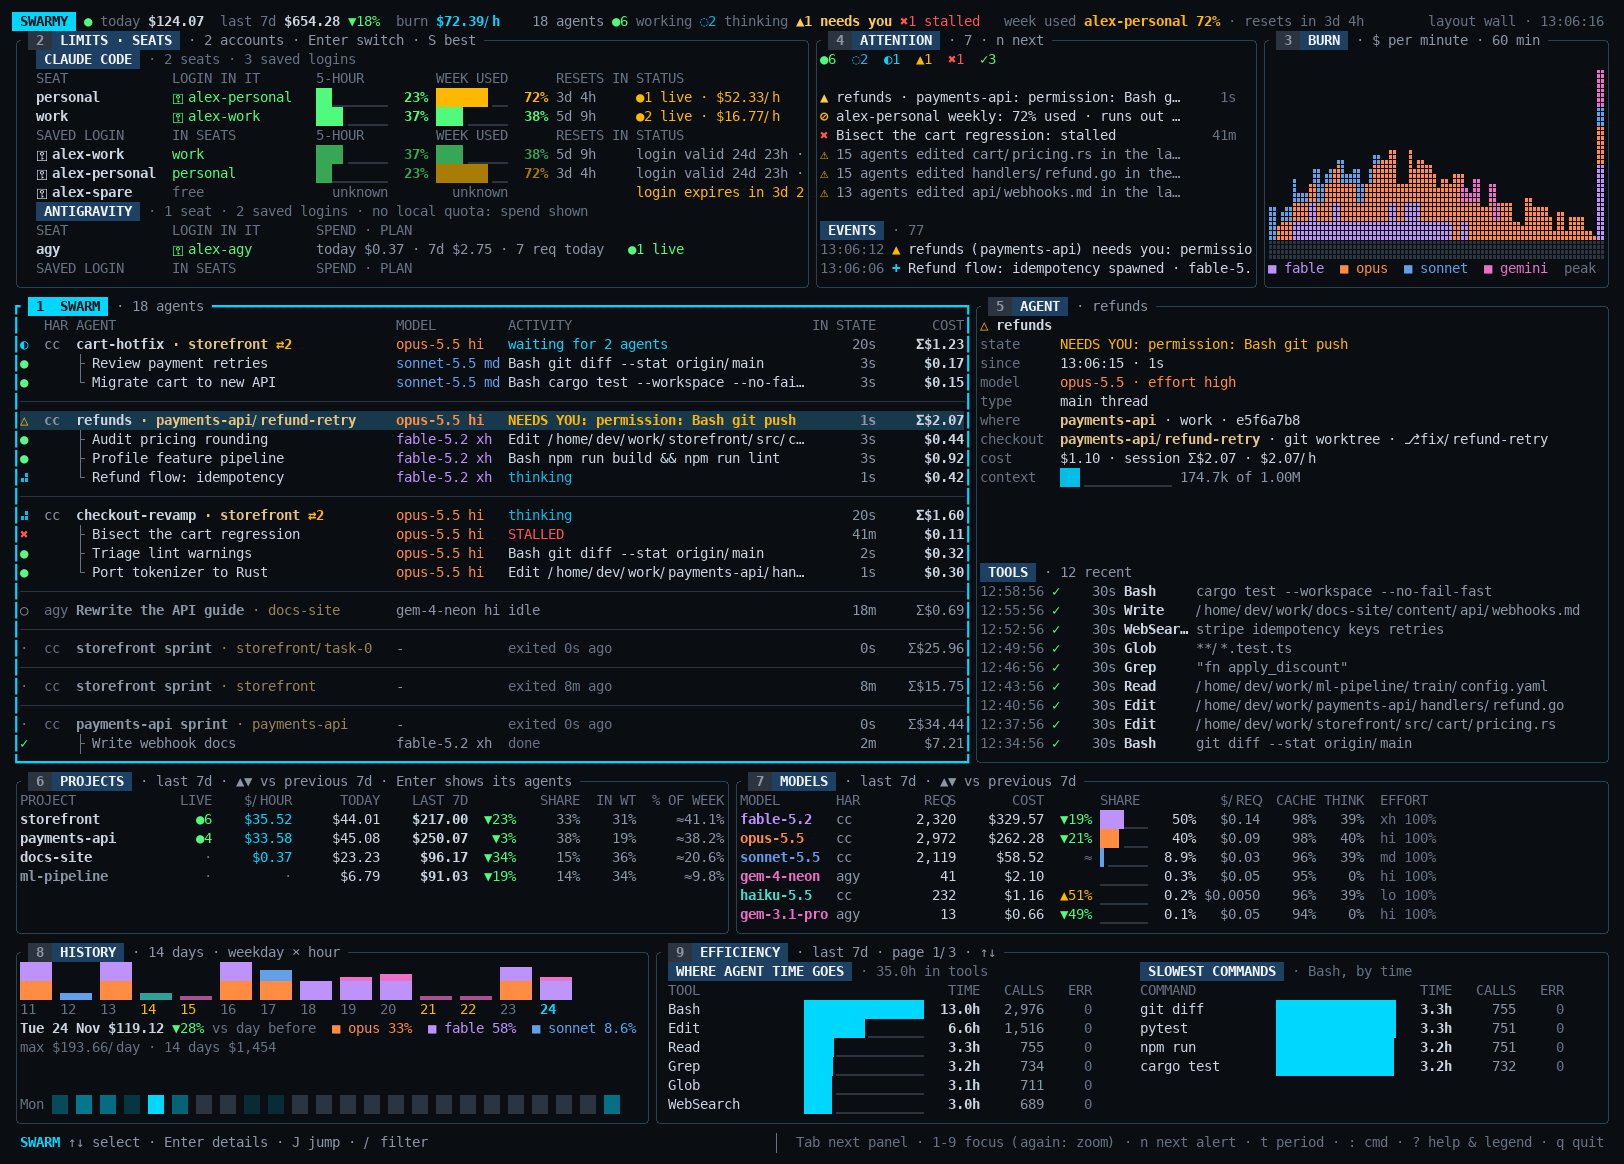
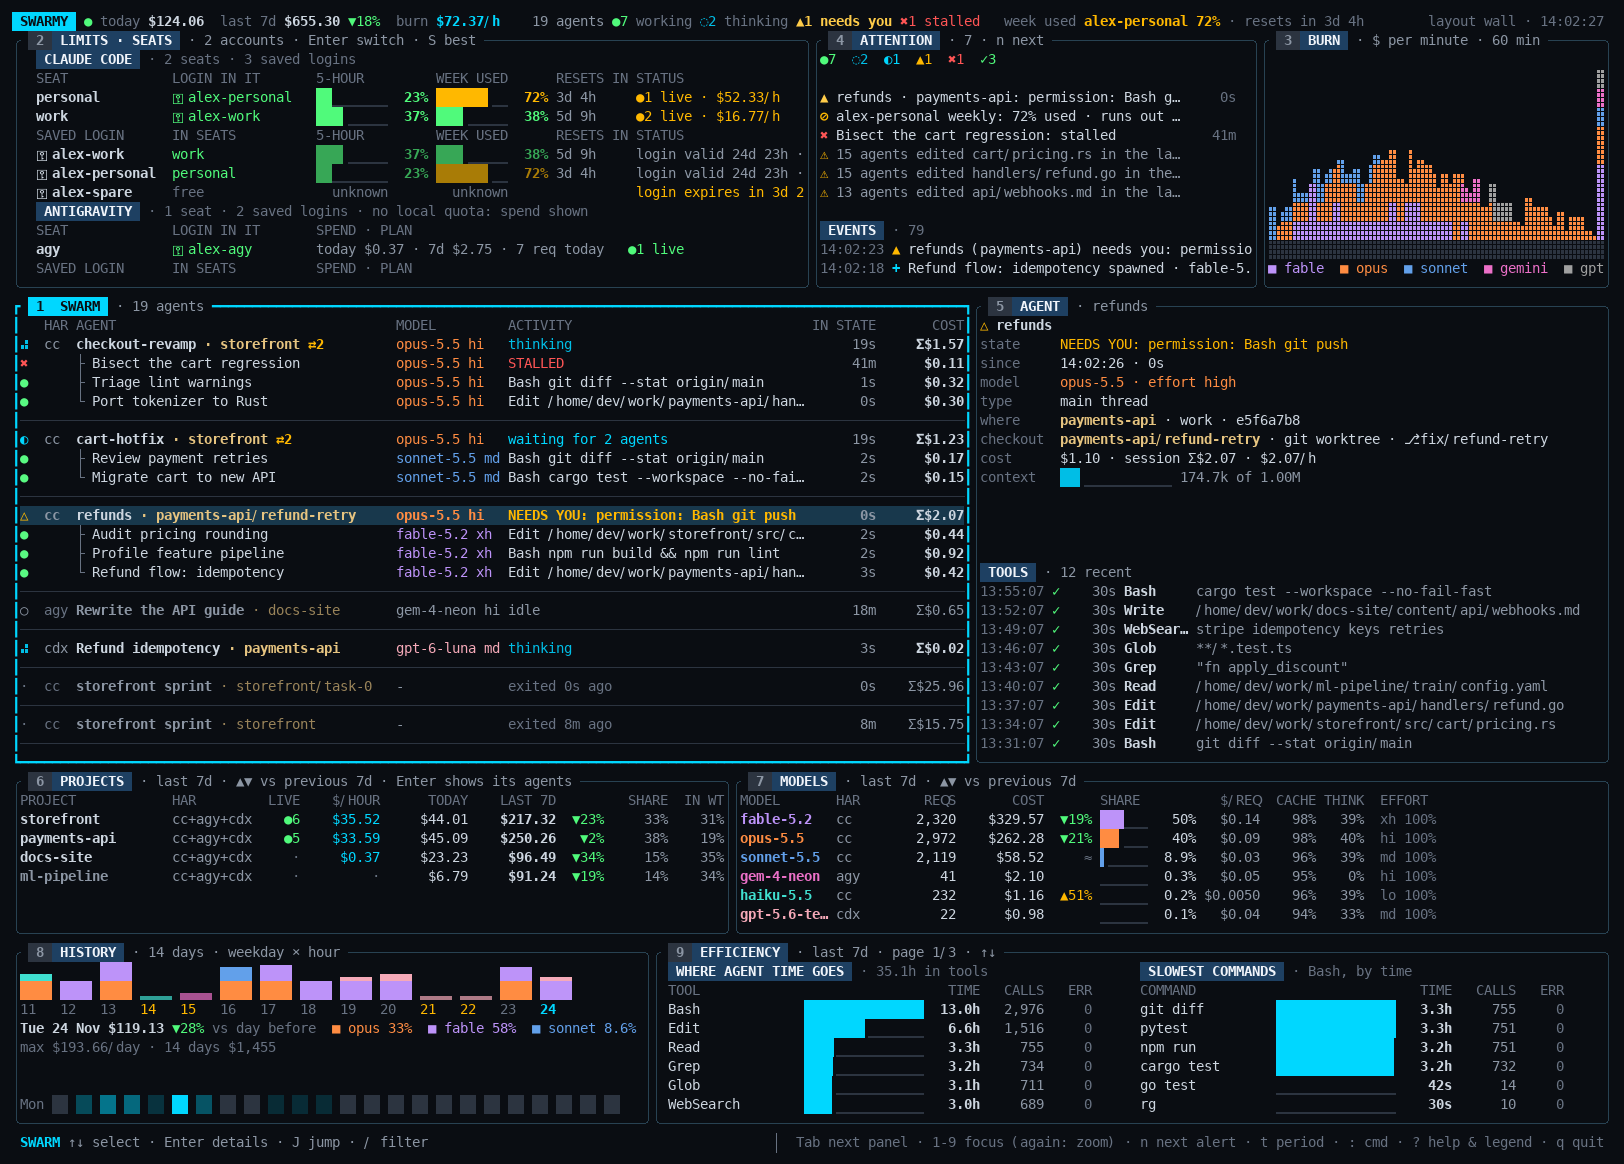
README: a real-time analytics dashboard across clients; v0.2.0 notes in one section
The lead says what swarmy is: a live view, a history that outlives the clients' 30-day
transcripts, and analytics for Claude Code, Antigravity and Codex in the same tables (one
repository is one project, every number splittable by client). The same line in Cargo, --help
and AGENTS.md. CHANGELOG: everything since v0.1.0 in one v0.2.0 section. PROJECTS sizes its HAR
column to the longest value (cc+agy+cdx). Media recorded again with the Codex seat.

diff --git a/src/tui/view/panels/projects.rs b/src/tui/view/panels/projects.rs
@@ -48,16 +48,6 @@ pub fn projects(f: &mut Frame, app: &mut App, area: Rect) {
         0
     };
     // Which harnesses worked on each project (`cc+agy`), with more than one.
-    let har_w = if app
-        .analytics
-        .projects
-        .iter()
-        .any(|p| !p.by_harness.is_empty())
-    {
-        8usize
-    } else {
-        0
-    };
     let har_of = |p: &crate::tui::ProjectRow| -> String {
         p.by_harness
             .iter()
@@ -66,6 +56,14 @@ pub fn projects(f: &mut Frame, app: &mut App, area: Rect) {
             .collect::<Vec<_>>()
             .join("+")
     };
+    let har_w = app
+        .analytics
+        .projects
+        .iter()
+        .map(|p| w(&har_of(p)))
+        .max()
+        .filter(|n| *n > 0)
+        .map_or(0, |n| n.max(3) + 1);
     let fixed = name_w + har_w + live_w + hour_w + today_w + per_w + 6 + share_w + wt_w + pts_w + 7;
     let bar_w = width.saturating_sub(fixed).min(40);
     let total: f64 = app

diff --git a/src/cli/mod.rs b/src/cli/mod.rs
@@ -19,7 +19,7 @@ use crate::ui::style::{ColorChoice, Painter};
 #[command(
     name = "swarmy",
     version,
-    about = "Mission control for AI coding agents (Claude Code, Antigravity): live swarm, API-equivalent spend, weekly-limit attribution, login vault",
+    about = "Real-time analytics dashboard for coding agents (Claude Code, Antigravity, Codex): live swarm, history, API-equivalent spend, weekly limits, login vault",
     long_about = None,
     after_help = "Run without a command for the live dashboard. Data never leaves this machine."
 )]

diff --git a/CHANGELOG.md b/CHANGELOG.md
@@ -3,49 +3,58 @@
 All notable changes to swarmy. Versions follow [Semantic Versioning](https://semver.org/); the
 release workflow takes a release's notes from its section here.
 
-## Unreleased
-
-- **OpenAI Codex as a third harness**: its homes (`~/.codex`, `~/.codex-*`, the `CODEX_HOME` of
-  running `codex` processes, `[[seat]] harness = "codex"`), threads read from their rollouts
-  (each response once, though Codex writes its usage twice), tool calls, prompts, thread names
-  and the account a thread runs under; one project per repo whichever harness worked on it;
-  `--harness codex`, `--by harness`, `cdx` in SWARM, MODELS and BURN. Open threads are live in
-  SWARM (thinking, a tool, idle), found by the lock Codex holds on each open thread.
-- **OpenAI prices** (GPT-6 Luna, Sol, Astra; 6.1, 6.2; GPT-5.6 Terra, Luna, Sol; 5.5 back to
-  GPT-5 and the Codex models) as dated built-in rows, with the 272K long-context rule and the
-  priority tier; `tools/prices-from-litellm.py` compares them too. The built-in table moved to
-  `src/core/pricing/builtin.rs`.
-- Codex seats show their spend in LIMITS · SEATS (no local quota is read yet) and are not kept in
-  the vault. The index's facts move to version 5 (the seats table learns the new harness).
-
 ## v0.2.0
 
-Antigravity next to Claude Code, worktrees and branches, and logins shared between seats.
+Three clients side by side (Claude Code, Antigravity, Codex), worktrees and branches, a clearer
+vault, and Homebrew.
 
-- **Antigravity (`agy`) as a harness next to Claude Code**: its seats (`~/.gemini/antigravity-cli`,
-  the `HOME` of running agys, `[[seat]] harness = "agy"`), live conversations and subagents,
-  spend, tools and projects in every panel and command; `--harness` and `--by harness`.
-- **Gemini prices** (Gemini 4 Neon, Carbon, Argon, Hydrogen; 3.x; 2.5) as dated built-in rows,
-  including the Carbon/Argon change on 2026-12-01; `tools/prices-from-litellm.py` compares the
+**Clients**
+
+- **Antigravity (`agy`) next to Claude Code**: its seats (`~/.gemini/antigravity-cli`, the `HOME`
+  of running agys, `[[seat]] harness = "agy"`), live conversations and subagents, spend, tools
+  and projects in every panel and command.
+- **OpenAI Codex as a third client**: its homes (`~/.codex`, `~/.codex-*`, the `CODEX_HOME` of
+  running `codex` processes, `[[seat]] harness = "codex"`), threads read from their rollouts
+  (each response once, though Codex writes its usage twice), tool calls, prompts, thread names
+  and the account a thread runs under; open threads are live in SWARM (thinking, a tool, idle).
+  Codex seats show their spend in LIMITS · SEATS (no local quota is read yet); its logins are not
+  kept in the vault yet.
+- One project per repository whichever client worked on it: PROJECTS shows which did (`cc+agy`);
+  MODELS shows which client ran a model; BURN splits today's spend per client; `--harness` and
+  `--by harness` everywhere.
+- **Prices**: Gemini (4 Neon, Carbon, Argon, Hydrogen; 3.x; 2.5, including the Carbon/Argon
+  change on 2026-12-01) and OpenAI (GPT-6 and 5.x, the Codex models, the 272K long-context rule
+  and the priority tier) as dated built-in rows; `tools/prices-from-litellm.py` compares the
   built-in rows with LiteLLM's list.
-- **Logins in several seats**: a saved login stays listed after it goes into a seat and can go
-  into more seats; the seat's own login is still saved first. `--share` is gone (no longer
-  needed).
-- **Vault for Antigravity**: save, add (`swarmy accounts add --harness agy`) and switch Google
-  logins between agy seats; a login only goes into seats of its harness.
-- LIMITS · SEATS groups seats and logins per harness; MODELS shows which harness ran a model;
-  BURN splits today's spend per harness.
-- **Worktrees and branches**: SWARM names a session's checkout (`shop/fix-1` for a linked git
-  worktree), its branch, and `⇄N` when several live sessions work in the same checkout; the
-  AGENT card has a checkout line; PROJECTS shows the share of spend made in worktrees (IN WT);
-  `g` groups by checkout; `report --by worktree`, `--by branch` and `--checkout worktrees|main`.
-  The index is read again once (cache version 7) to pick up the branches.
+
+**Worktrees and branches**
+
+- SWARM names a session's checkout (`shop/fix-1` for a linked git worktree), its branch, and
+  `⇄N` when several live sessions work in the same checkout; the AGENT card has a checkout line;
+  PROJECTS shows the share of spend made in worktrees (IN WT); `g` groups by checkout;
+  `report --by worktree`, `--by branch` and `--checkout worktrees|main`.
+
+**Vault**
+
+- LIMITS · SEATS shows, per client, a table of seats (dir, the login in each) and a table of
+  saved logins (the seats each is in, or free); `swarmy accounts` the same.
+- A saved login stays listed after it goes into a seat and can go into more seats; the seat's own
+  login is still saved first. `--share` is gone.
+- Antigravity logins are saved, added (`swarmy accounts add --harness agy`) and switched like
+  Claude Code's; a login only goes into seats of its own client; labels are unique per client.
+- macOS: the dashboard and the commands say up front that Claude Code logins cannot be switched
+  there (Claude Code keeps them in the Keychain) instead of failing after a try.
+
+**Elsewhere**
+
 - **Jump beyond tmux**: `J` and `swarmy jump` reach a Claude Code in Zellij, kitty, WezTerm and
   iTerm2 too (read from the process's environment, on Linux and macOS).
 - **Accounts per organization**: an account is the pair of user and organization, so one login
-  in two organizations keeps two weeks and two plans.
-- Accounts: the organization migration keeps parked organizations apart, finishes an
-  interrupted re-attribution, and completes `session-owner` records that have no organization.
+  in two organizations keeps two weeks and two plans; the migration keeps parked organizations
+  apart and finishes an interrupted re-attribution.
+- **Homebrew**: `brew install koorchik/tap/swarmy` (macOS universal binary, Linux x86_64 and
+  aarch64).
+- The index is read again once on the first start (cache version 7, facts version 5).
 
 ## v0.1.0
 

diff --git a/README.md b/README.md
@@ -1,15 +1,24 @@
 # swarmy
 
-**Mission control for Claude Code (and Antigravity and Codex) agents, in your terminal.**
+**A real-time analytics dashboard for your coding agents: Claude Code, Antigravity and Codex,
+together, in your terminal.**
 
 [![CI](https://github.com/koorchik/swarmy/actions/workflows/ci.yml/badge.svg?branch=main)](https://github.com/koorchik/swarmy/actions/workflows/ci.yml)
 [![Release](https://img.shields.io/github/v/release/koorchik/swarmy?sort=semver)](https://github.com/koorchik/swarmy/releases/latest)
 [![License: MIT OR Apache-2.0](https://img.shields.io/badge/license-MIT%20OR%20Apache--2.0-blue)](#license)
 [![Platforms](https://img.shields.io/badge/platforms-Linux%20%7C%20macOS%20%7C%20Windows%20%7C%20Raspberry%20Pi-lightgrey)](#platforms)
 
-You run several Claude Code sessions, each with a crowd of subagents. swarmy shows every one of
-them live on one screen, tells you the moment one needs you and takes you there, and shows where
-your weekly limit went and when it runs out.
+You run several coding agents at once, each with a crowd of subagents, maybe from more than one
+client. swarmy puts all of them on one screen and keeps the numbers behind them:
+
+- **Live.** Every agent and subagent of every session, whichever client runs it: what it does
+  right now, what it costs, and the moment one needs you (with a key that takes you there).
+- **History.** Every request is kept in a local index and outlives the clients' own 30-day
+  transcript retention: days, weeks and months to compare, rolled up so it stays small.
+- **Analytics across clients, together.** Spend at API prices, weekly limits, models, projects,
+  worktrees, agent types, tools and waiting time, for Claude Code, Antigravity and Codex in the
+  same tables: one repository is one project whichever client worked on it, and every number can
+  be split by client when you want to compare them.
 
 swarmy is an observer, not a launcher: it never starts, prompts or controls an agent. Keep running
 your agents the way you do now (plain terminals, tmux, [herdr](#how-it-compares), claude-squad,
@@ -36,17 +45,17 @@ worktrees) and put swarmy in a spare terminal next to them.
 - **Worktrees and branches.** Each session shows the checkout it works in (`shop/fix-1` for a git
   worktree) and its branch; `⇄2` warns when two live sessions edit the same checkout. Spend per
   worktree and per branch, and how much of each project's work ran in worktrees.
-- **Google Antigravity and OpenAI Codex too.** `agy` seats, conversations and subagents, and
-  Codex homes and threads, sit in the same tree, panels and reports as Claude Code's; Gemini and
-  GPT models priced at Google's and OpenAI's list prices; one project for a repo whichever agent
-  worked on it; `--harness` and `--by harness` tell them apart.
+- **Three clients, one picture.** Claude Code, Google Antigravity (`agy`) and OpenAI Codex sit in
+  the same tree, panels and reports; Claude, Gemini and GPT models priced at their makers' list
+  prices; PROJECTS shows which clients worked on each repository (`cc+agy+cdx`), MODELS which
+  client ran each model, BURN today's split; `--harness` and `--by harness` compare them.
 - **A status line inside Claude Code.** Who needs you in your other sessions, this session's
   agents, the exact week used and when it runs out.
 - **A vault for several accounts.** Save each config dir's login, put another account's login in
   when a limit runs out, and switch back; one login can serve several seats, and agy's Google
   logins switch the same way. A switch never loses a token.
-- **Offline, read-only, light.** No network, no telemetry. It reads what Claude Code already
-  writes. About 2 CPU-seconds a minute with 20 live agents on a 4K terminal. One static binary
+- **Offline, read-only, light.** No network, no telemetry. It reads what the clients already
+  write. About 2 CPU-seconds a minute with 20 live agents on a 4K terminal. One static binary
   with SQLite built in.
 
 <p align="center">
@@ -74,6 +83,9 @@ What swarmy adds:
 - **One live view of every agent, subagents included,** across all your Claude Code config dirs,
   Antigravity and Codex, whoever started them: a launcher sees the panes it owns, not the twenty
   subagents working inside one session.
+- **History and analytics across clients.** Claude Code, Antigravity and Codex in one index
+  that keeps every request for good (rolled up), so a repository's work from all three clients
+  adds up in one place and can be compared day by day, model by model, client by client.
 - **Money and limits next to the agents.** What each agent and session costs as it runs, where each
   account's weekly limit went by project, and when it runs out at the current pace.
 - **Several accounts.** Every config dir is found on its own; a vault moves OAuth logins between
@@ -88,6 +100,7 @@ What swarmy adds:
 | | swarmy | launchers (herdr, claude-squad, …) | usage counters (ccusage, …) |
 |---|---|---|---|
 | starts, prompts, keeps agents | no | yes | no |
+| several clients in one view and history | yes (Claude Code, Antigravity, Codex) | many CLIs, live only | ccusage: many CLIs, reports |
 | worktree per agent | shows them | creates them | no |
 | live state of every agent | yes, with subagents | yes, per pane | no |
 | cost at API prices | live and in reports | no | in reports |

diff --git a/AGENTS.md b/AGENTS.md
@@ -1,6 +1,6 @@
 # AGENTS.md — swarmy
 
-Mission control for Claude Code agents: a Rust CLI + TUI that reads what Claude Code writes to disk
+A real-time analytics dashboard for coding agents (Claude Code, Antigravity, Codex): a Rust CLI + TUI that reads what they write to disk
 (transcripts, session registry, `.claude.json`) across several config dirs, shows the live agent
 swarm, API-equivalent spend, weekly-limit attribution per project, and keeps a vault of OAuth
 logins. Users run it in a spare terminal, mostly on laptops.
